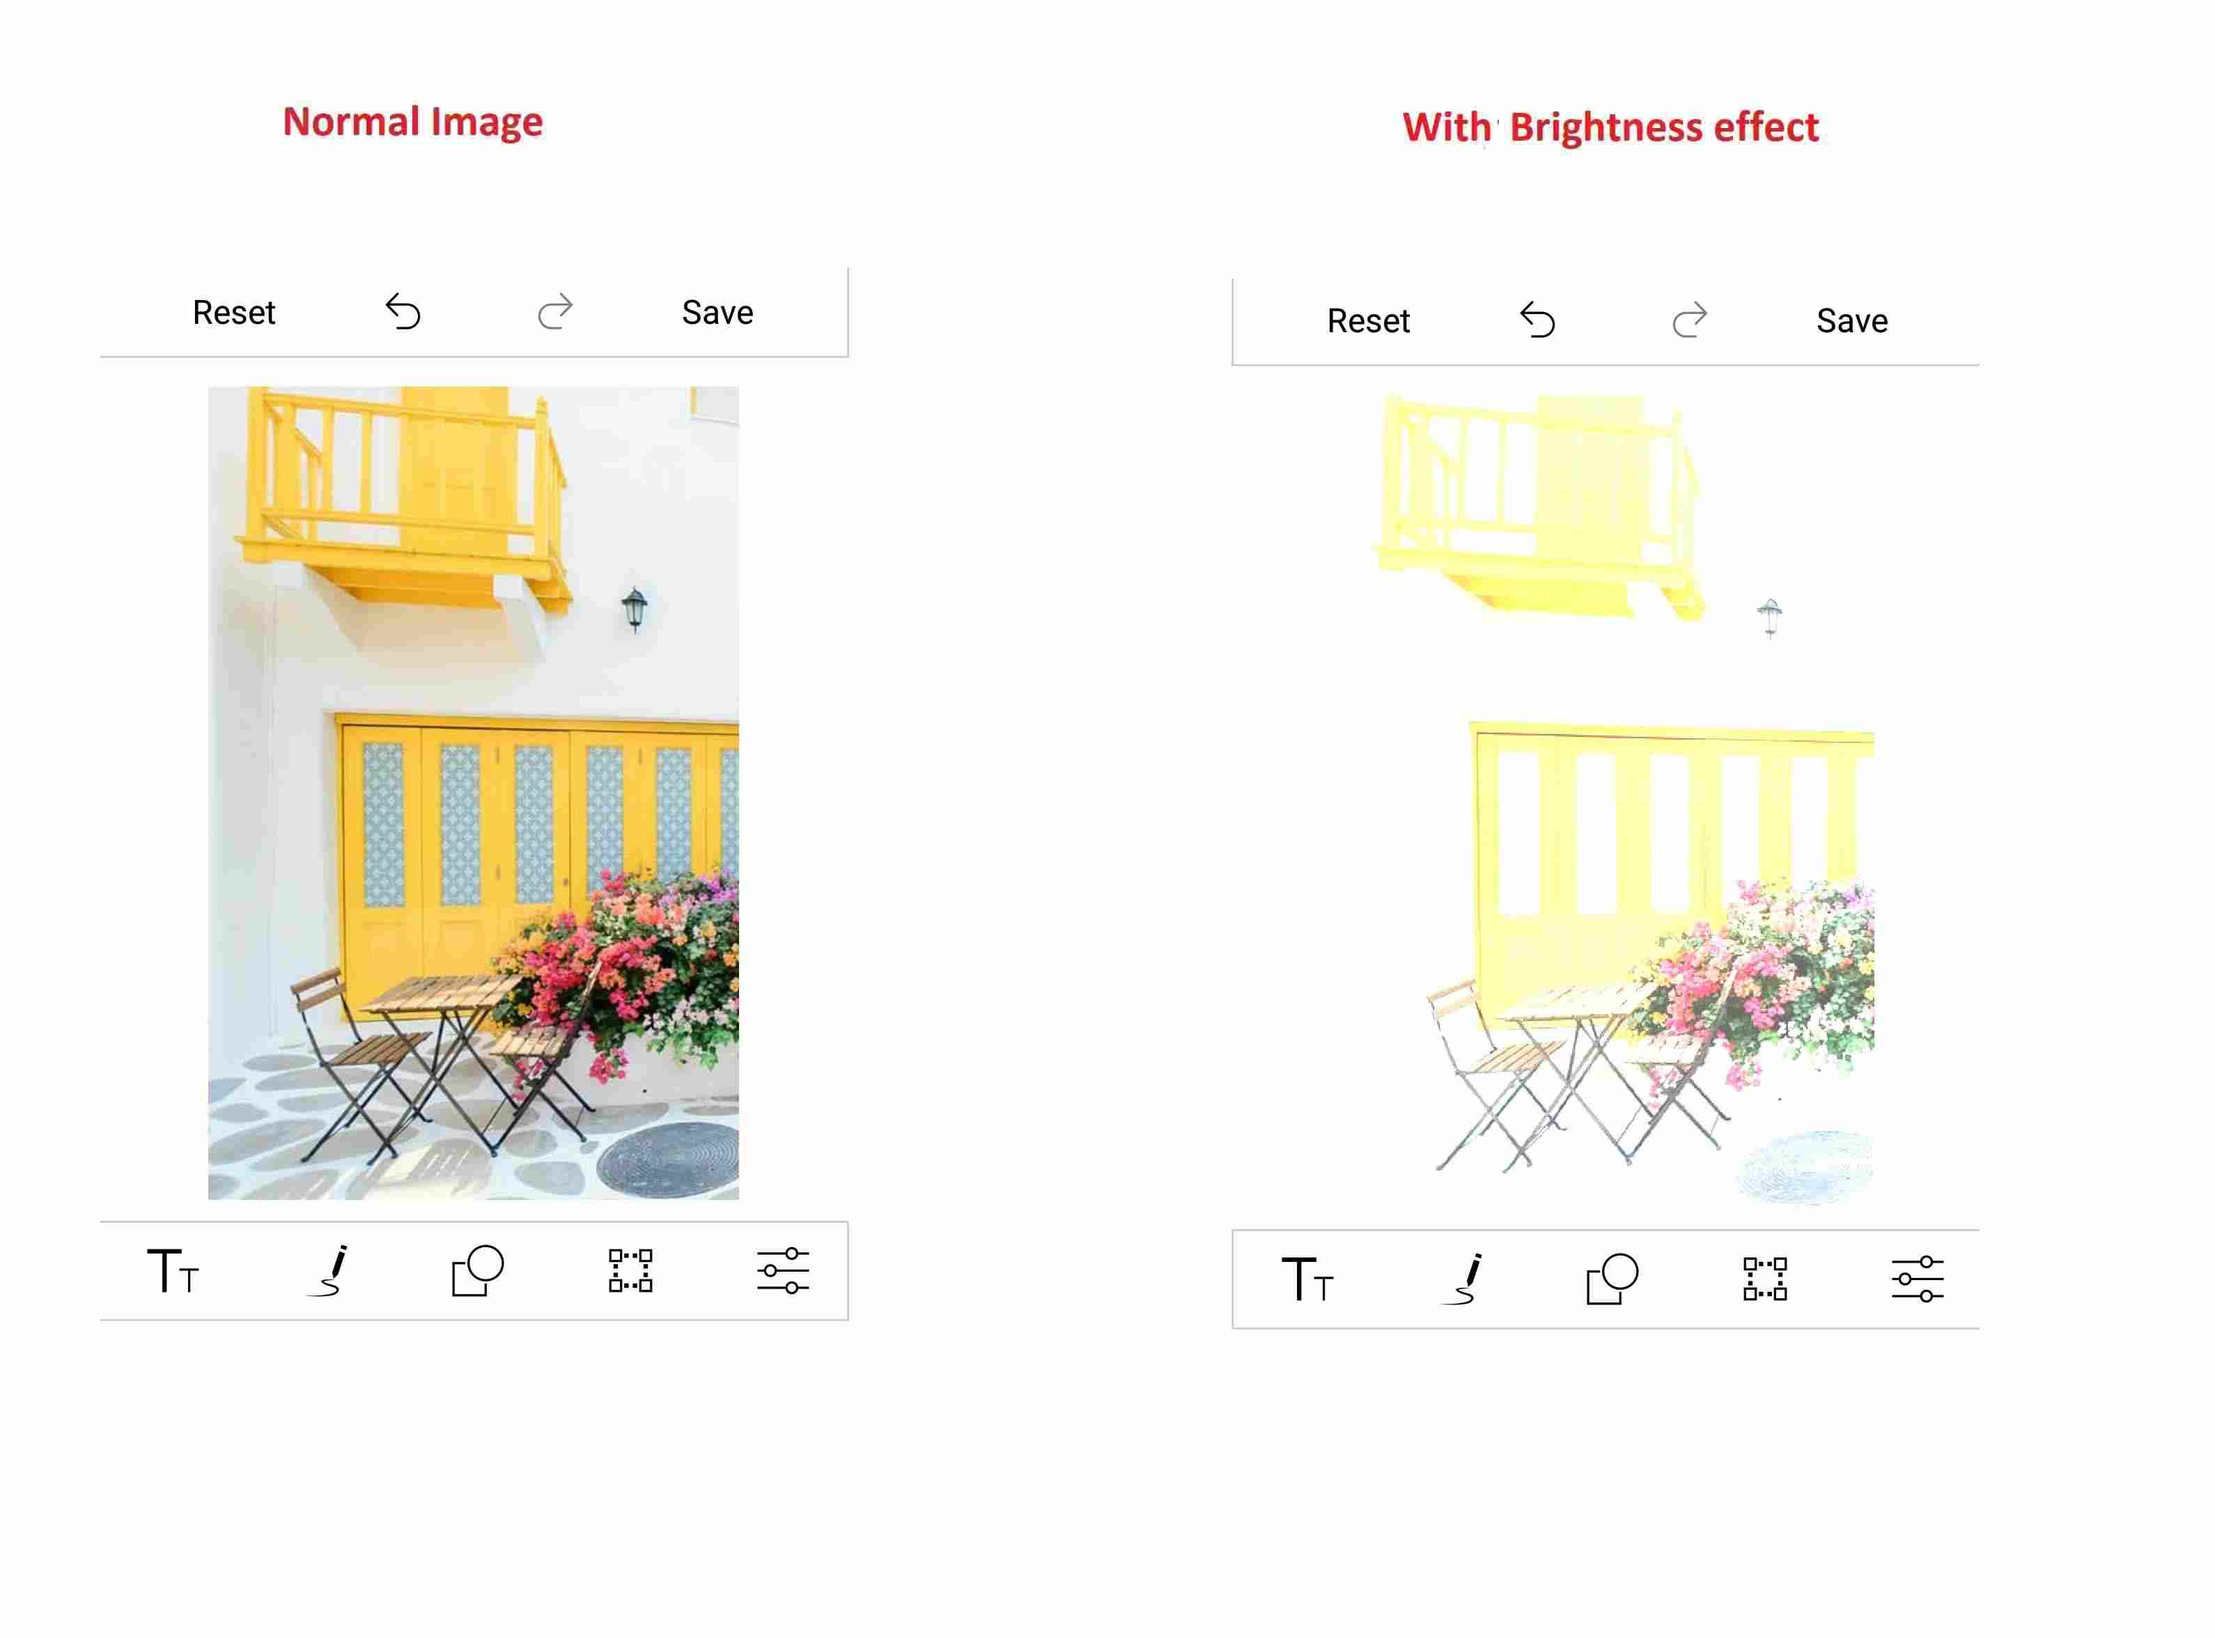
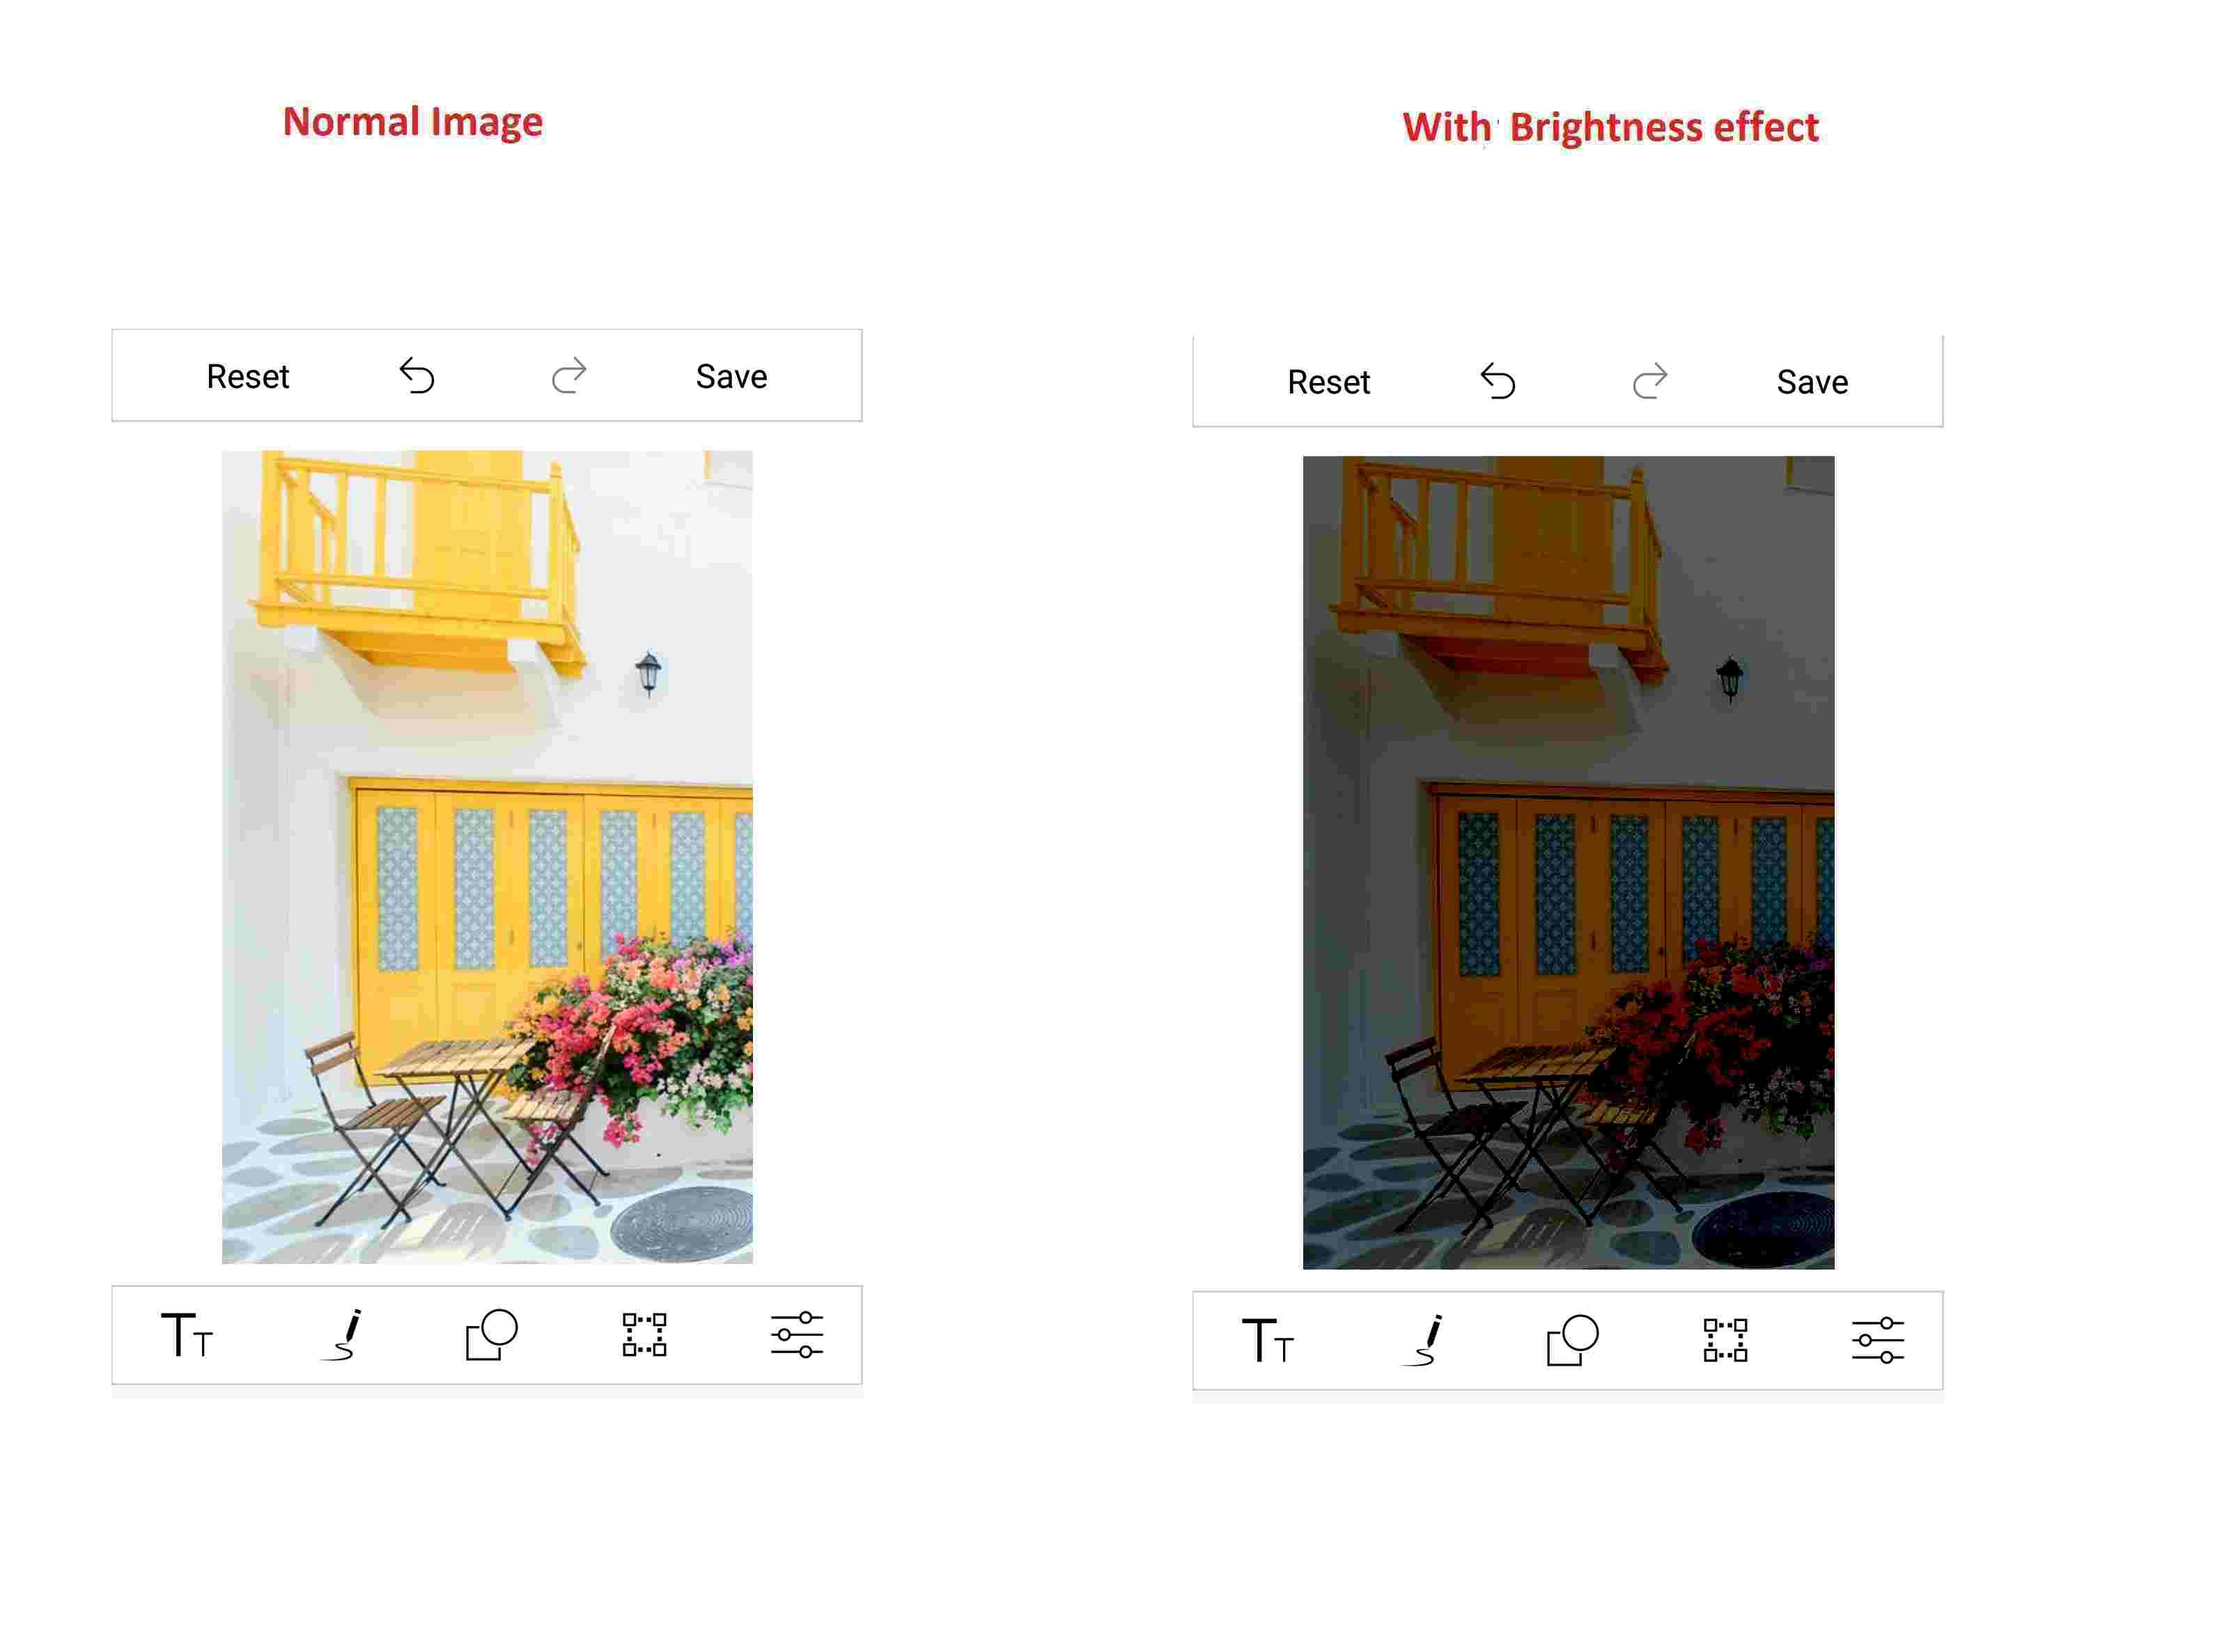
Code review changes added

diff --git a/Xamarin/SfImageEditor/ImageFilter.md b/Xamarin/SfImageEditor/ImageFilter.md
@@ -64,7 +64,7 @@ The brightness represents how bright the color is. The value of brightness effec
 public MainPage()
 {               
     . . .
-    editor.ApplyImageEffect(ImageEffect.Brightness, 40);
+    editor.ApplyImageEffect(ImageEffect.Brightness, -60);
     . . .
 }
 
